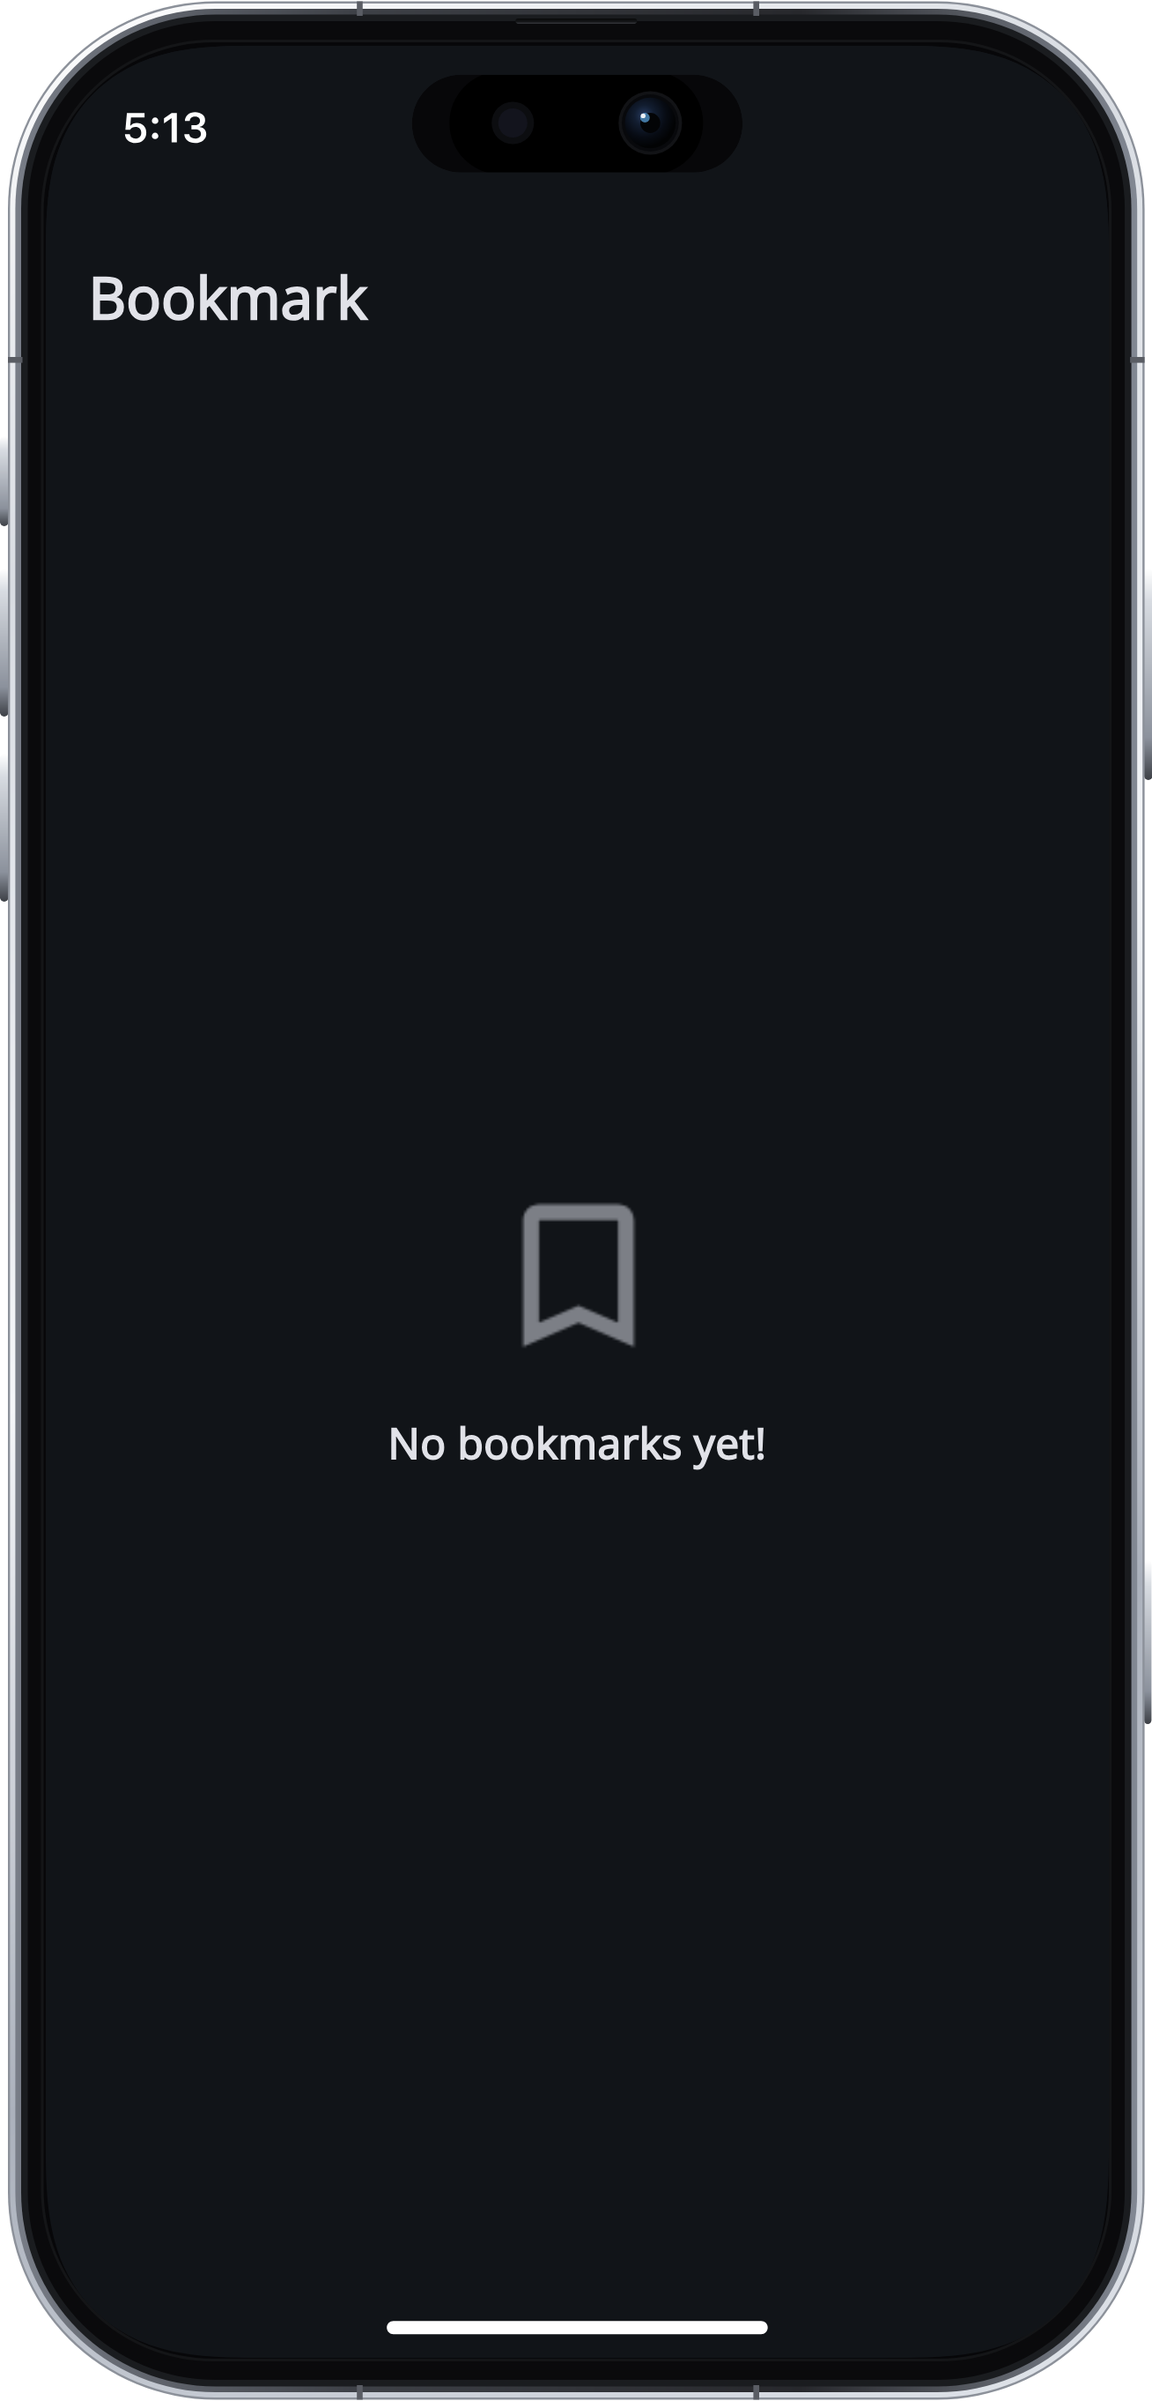
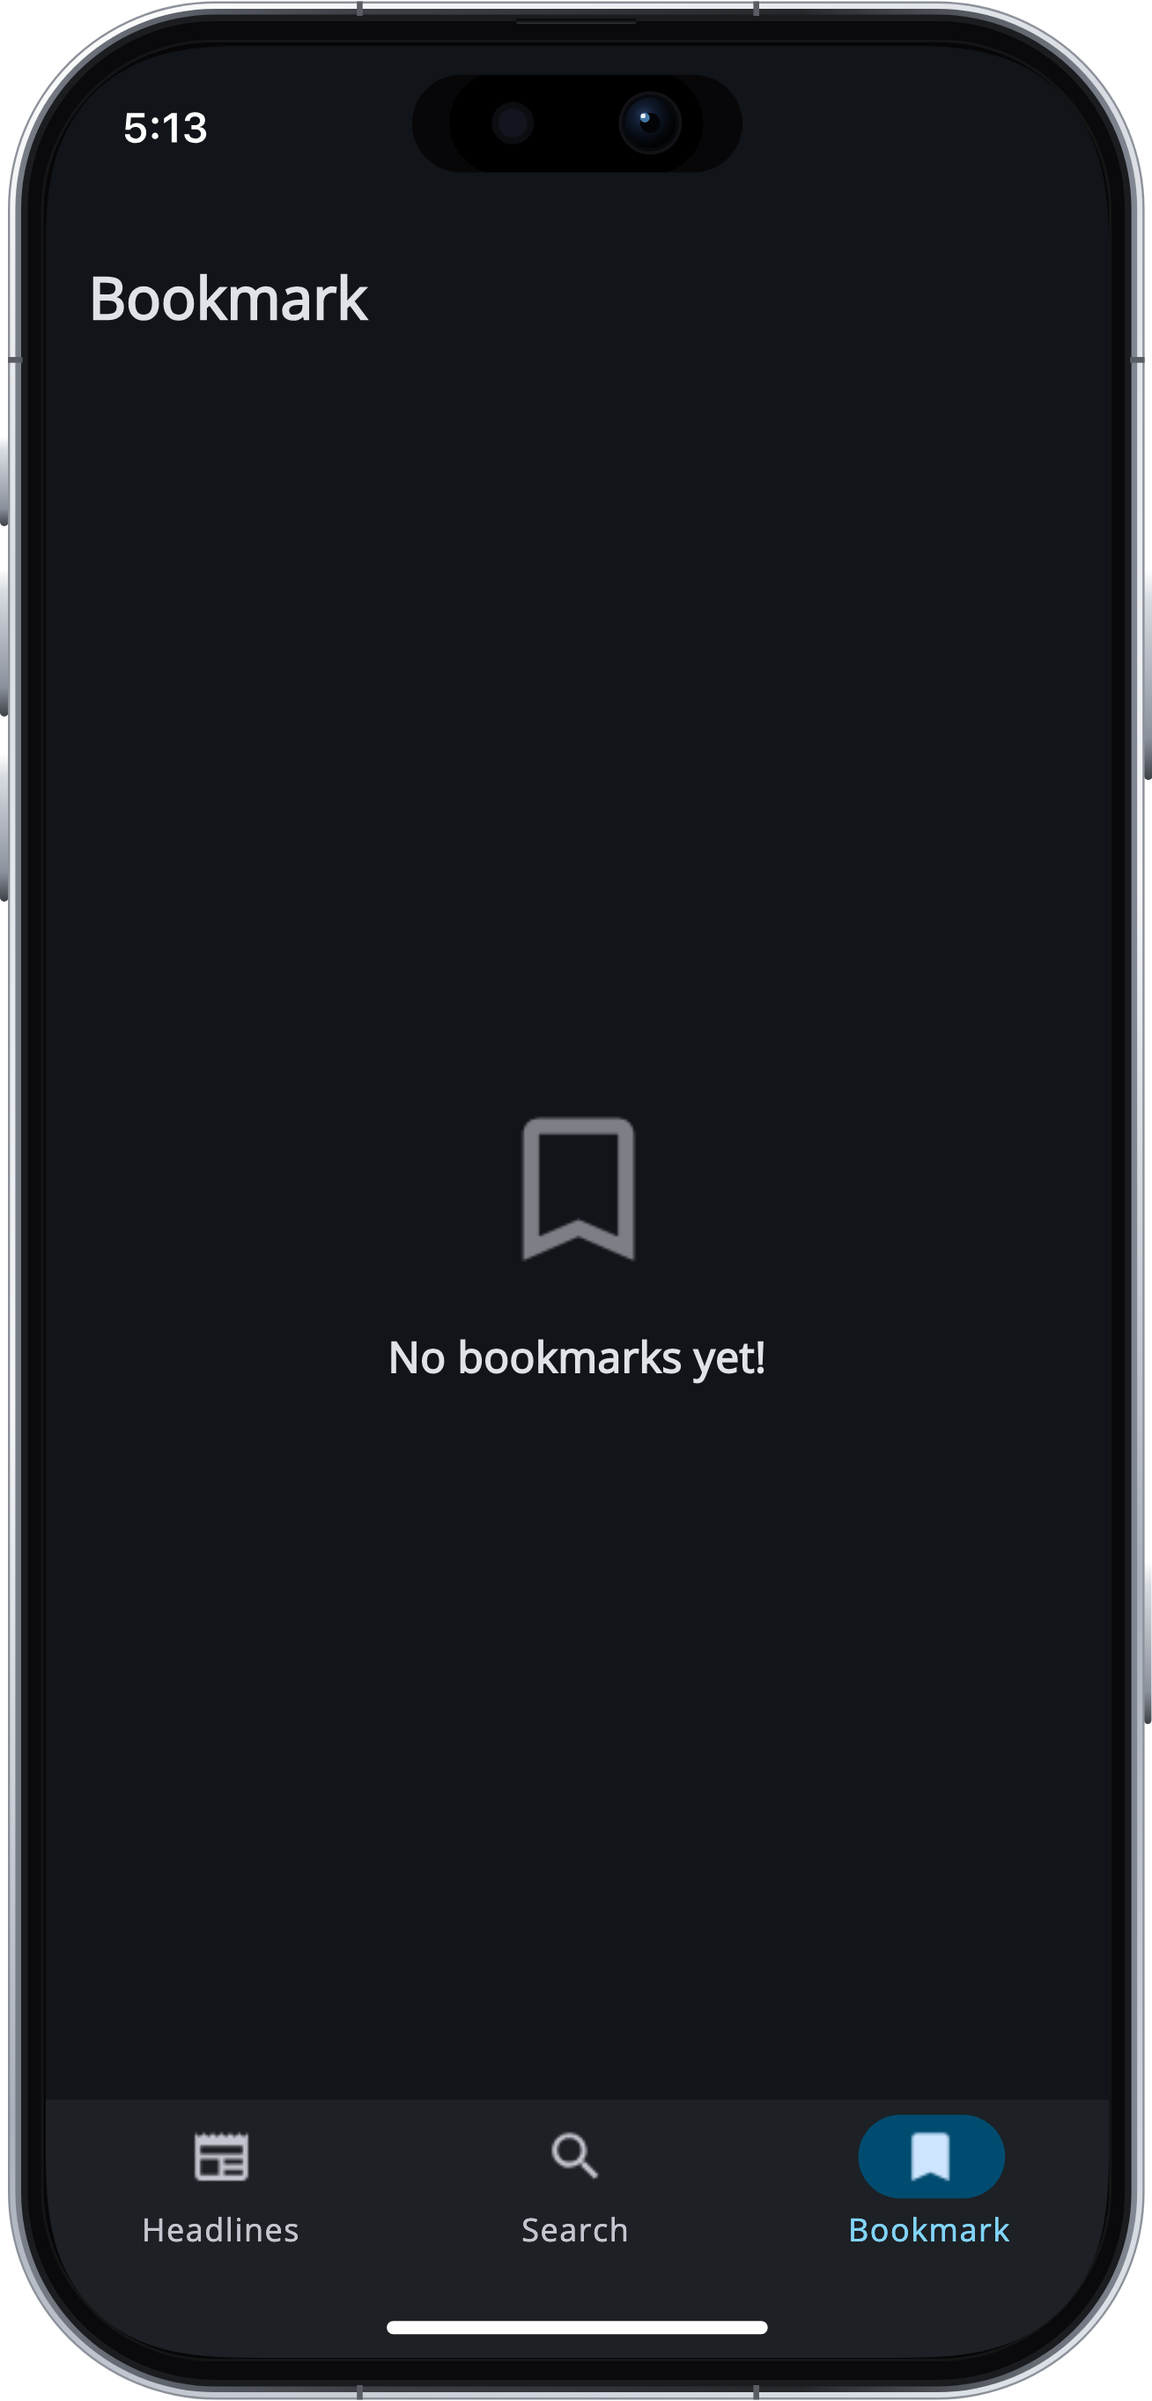
feat(screenshot): integrate CustomNavigationSuiteScaffoldLayout and update screenshots

diff --git a/screenshot/src/main/kotlin/com/coding/meet/newsapp/screenshot/AdaptiveScreenContent.kt b/screenshot/src/main/kotlin/com/coding/meet/newsapp/screenshot/AdaptiveScreenContent.kt
@@ -2,10 +2,14 @@ package com.coding.meet.newsapp.screenshot
 
 import androidx.compose.foundation.layout.BoxWithConstraints
 import androidx.compose.foundation.layout.fillMaxSize
+import androidx.compose.material3.adaptive.navigationsuite.NavigationSuiteType
+import androidx.compose.material3.adaptive.navigationsuite.rememberNavigationSuiteScaffoldState
 import androidx.compose.runtime.Composable
 import androidx.compose.ui.Modifier
 import androidx.compose.ui.unit.dp
 import com.apadmi.cmpdevicepreview.devices.DevicePresets
+import com.coding.meet.newsapp.ui.navigation.CustomNavigationSuiteScaffoldLayout
+import com.coding.meet.newsapp.ui.navigation.NavigationItem
 import java.io.File
 
 /**
@@ -48,26 +52,31 @@ internal val mobileScreenStates = listOf(
 )
 
 internal val desktopScreenStates = listOf(
-    "01_two_pane_headlines_and_detail.png" to AdaptiveScreenState.HEADLINES,
-    "02_two_pane_search_and_detail.png" to AdaptiveScreenState.SEARCH_RESULTS,
-    "03_two_pane_bookmarks_and_detail.png" to AdaptiveScreenState.BOOKMARKS_SAVED,
-    "04_two_pane_theme_dialog.png" to AdaptiveScreenState.THEME_DIALOG,
-    "05_two_pane_delete_bookmarks_dialog.png" to AdaptiveScreenState.CLEAR_BOOKMARKS_DIALOG,
+    "01_headlines_feed.png" to AdaptiveScreenState.HEADLINES,
+    "02_article_detail.png" to AdaptiveScreenState.ARTICLE_DETAIL,
+    "03_search_results.png" to AdaptiveScreenState.SEARCH_RESULTS,
+    "04_bookmarks_saved.png" to AdaptiveScreenState.BOOKMARKS_SAVED,
+    "05_settings_screen.png" to AdaptiveScreenState.SETTINGS,
+    "06_theme_selection_dialog.png" to AdaptiveScreenState.THEME_DIALOG,
 )
 
 internal val webScreenStates = listOf(
-    "01_web_headlines_and_detail.png" to AdaptiveScreenState.HEADLINES,
-    "02_web_search_results.png" to AdaptiveScreenState.SEARCH_RESULTS,
-    "03_web_bookmarks_and_detail.png" to AdaptiveScreenState.BOOKMARKS_SAVED,
-    "04_web_theme_dialog.png" to AdaptiveScreenState.THEME_DIALOG,
-    "05_web_delete_bookmarks_dialog.png" to AdaptiveScreenState.CLEAR_BOOKMARKS_DIALOG,
+    "01_web_headlines_feed.png" to AdaptiveScreenState.HEADLINES,
+    "02_web_article_detail.png" to AdaptiveScreenState.ARTICLE_DETAIL,
+    "03_web_search_results.png" to AdaptiveScreenState.SEARCH_RESULTS,
+    "04_web_bookmarks_saved.png" to AdaptiveScreenState.BOOKMARKS_SAVED,
+    "05_web_settings_screen.png" to AdaptiveScreenState.SETTINGS,
+    "06_web_theme_selection_dialog.png" to AdaptiveScreenState.THEME_DIALOG,
 )
 
 /**
- * Unified adaptive container that renders the given [state] automatically adapting to the
- * screen width:
- * - On compact devices (`maxWidth < 840.dp`, e.g. Pixel 9, iPhone 16 Pro): renders single-pane layout.
- * - On expanded screens (`maxWidth >= 840.dp`, e.g. Desktop window, Web browser): renders two-pane master-detail layout.
+ * Canonical adaptive app container powered by [CustomNavigationSuiteScaffoldLayout]:
+ * - Compact screens (< 840.dp, e.g. Pixel 9, iPhone 16 Pro):
+ *   Uses [NavigationSuiteType.ShortNavigationBarCompact] with active item selection, or
+ *   [NavigationSuiteType.None] when viewing article details / settings.
+ * - Expanded screens (>= 840.dp, e.g. Desktop, Web):
+ *   Uses [NavigationSuiteType.NavigationDrawer] permanent navigation panel on the left, or
+ *   [NavigationSuiteType.None] for detail / settings view.
  */
 @Composable
 fun AdaptiveAppContent(
@@ -75,68 +84,35 @@ fun AdaptiveAppContent(
     isDark: Boolean = true,
 ) {
     BoxWithConstraints(modifier = Modifier.fillMaxSize()) {
-        val isTwoPane = maxWidth >= 840.dp
+        val isExpanded = maxWidth >= 840.dp
 
-        if (isTwoPane) {
-            when (state) {
-                AdaptiveScreenState.HEADLINES,
-                AdaptiveScreenState.HEADLINES_SHIMMER -> {
-                    TwoPaneLayout(
-                        leftPane = { HeadlinesContent() },
-                        rightPane = { ArticleDetailContent() },
-                    )
-                }
-                AdaptiveScreenState.ARTICLE_DETAIL -> {
-                    TwoPaneLayout(
-                        leftPane = { HeadlinesContent() },
-                        rightPane = { ArticleDetailContent(isBookmarked = true) },
-                    )
-                }
-                AdaptiveScreenState.SEARCH_EMPTY -> {
-                    TwoPaneLayout(
-                        leftPane = { SearchEmptyContent() },
-                        rightPane = { ArticleDetailContent() },
-                    )
-                }
-                AdaptiveScreenState.SEARCH_RESULTS -> {
-                    TwoPaneLayout(
-                        leftPane = { SearchResultsContent() },
-                        rightPane = { ArticleDetailContent(article = sampleSearchArticles.first()) },
-                    )
-                }
-                AdaptiveScreenState.BOOKMARKS_EMPTY -> {
-                    TwoPaneLayout(
-                        leftPane = { BookmarksEmptyContent() },
-                        rightPane = { ArticleDetailContent() },
-                    )
-                }
-                AdaptiveScreenState.BOOKMARKS_SAVED -> {
-                    TwoPaneLayout(
-                        leftPane = { BookmarksSavedContent() },
-                        rightPane = { ArticleDetailContent(article = sampleBookmarkedArticles.first()) },
-                    )
-                }
-                AdaptiveScreenState.SETTINGS -> {
-                    TwoPaneLayout(
-                        leftPane = { SettingsContent(isDark = isDark) },
-                        rightPane = { ArticleDetailContent() },
-                    )
-                }
-                AdaptiveScreenState.THEME_DIALOG -> {
-                    TwoPaneLayout(
-                        leftPane = { ThemeDialogContent(isDark = isDark) },
-                        rightPane = { ArticleDetailContent() },
-                    )
-                }
-                AdaptiveScreenState.CLEAR_BOOKMARKS_DIALOG -> {
-                    TwoPaneLayout(
-                        leftPane = { ClearBookmarksDialogContent(isDark = isDark) },
-                        rightPane = { ArticleDetailContent() },
-                    )
-                }
-            }
+        val currentNavItem = when (state) {
+            AdaptiveScreenState.HEADLINES,
+            AdaptiveScreenState.HEADLINES_SHIMMER -> NavigationItem.Headlines
+            AdaptiveScreenState.SEARCH_EMPTY,
+            AdaptiveScreenState.SEARCH_RESULTS -> NavigationItem.Search
+            AdaptiveScreenState.BOOKMARKS_EMPTY,
+            AdaptiveScreenState.BOOKMARKS_SAVED -> NavigationItem.Bookmark
+            AdaptiveScreenState.ARTICLE_DETAIL,
+            AdaptiveScreenState.SETTINGS,
+            AdaptiveScreenState.THEME_DIALOG,
+            AdaptiveScreenState.CLEAR_BOOKMARKS_DIALOG -> null
+        }
+
+        val layoutType = if (currentNavItem == null) {
+            NavigationSuiteType.None
+        } else if (isExpanded) {
+            NavigationSuiteType.NavigationDrawer
         } else {
-            // Compact Mobile Layout
+            NavigationSuiteType.ShortNavigationBarCompact
+        }
+
+        CustomNavigationSuiteScaffoldLayout(
+            navigationSuiteState = rememberNavigationSuiteScaffoldState(),
+            layoutType = layoutType,
+            currentNavigationItem = currentNavItem,
+            onNavigationItemClick = {},
+        ) {
             when (state) {
                 AdaptiveScreenState.HEADLINES -> HeadlinesContent()
                 AdaptiveScreenState.HEADLINES_SHIMMER -> HeadlinesShimmerContent()
@@ -196,4 +172,3 @@ internal fun exportPlatformScreens(
         }
     }
 }
-

diff --git a/screenshot/src/test/kotlin/com/coding/meet/newsapp/screenshot/AllPlatformScreenshotTest.kt b/screenshot/src/test/kotlin/com/coding/meet/newsapp/screenshot/AllPlatformScreenshotTest.kt
@@ -113,7 +113,7 @@ class AllPlatformScreenshotTest {
     }
 
     @Test
-    fun captureMacDesktopTwoPaneScreenshotInJvm() = runComposeUiTest {
+    fun captureMacDesktopScreenshotInJvm() = runComposeUiTest {
         val screenshots = DeviceScreenshots()
         setContent {
             CompositionLocalProvider(LocalDeviceScreenshots provides screenshots) {
@@ -141,7 +141,7 @@ class AllPlatformScreenshotTest {
             screenshots.capture(includeFrame = true),
             "macOS window frame could not be captured",
         )
-        val outputFile = File(outputDir, "test_mac_desktop_two_pane.png")
+        val outputFile = File(outputDir, "test_mac_desktop_headlines.png")
         saveImageBitmap(capturedImage, outputFile)
 
         assertTrue(outputFile.exists() && outputFile.length() > 0, "macOS screenshot was not saved!")
@@ -149,7 +149,7 @@ class AllPlatformScreenshotTest {
     }
 
     @Test
-    fun captureWebBrowserTwoPaneScreenshotInJvm() = runComposeUiTest {
+    fun captureWebBrowserScreenshotInJvm() = runComposeUiTest {
         setContent {
             NewsAppTheme(darkTheme = true) {
                 WebBrowserFrame(
@@ -168,7 +168,7 @@ class AllPlatformScreenshotTest {
 
         val rootNode = onRoot()
         val imageBitmap = rootNode.captureToImage()
-        val outputFile = File(outputDir, "test_web_browser_two_pane.png")
+        val outputFile = File(outputDir, "test_web_browser_headlines.png")
         saveImageBitmap(imageBitmap, outputFile)
 
         assertTrue(outputFile.exists() && outputFile.length() > 0, "Web browser screenshot was not saved!")

diff --git a/screenshot/src/main/kotlin/com/coding/meet/newsapp/screenshot/ScreenshotRenderers.kt b/screenshot/src/main/kotlin/com/coding/meet/newsapp/screenshot/ScreenshotRenderers.kt
@@ -33,38 +33,6 @@ import org.jetbrains.skia.Image
 import java.io.File
 import kotlin.math.roundToInt
 
-@Composable
-internal fun TwoPaneLayout(
-    leftPane: @Composable () -> Unit,
-    rightPane: @Composable () -> Unit,
-) {
-    Row(
-        modifier = Modifier
-            .fillMaxSize()
-            .background(MaterialTheme.colorScheme.background)
-    ) {
-        Box(
-            modifier = Modifier
-                .width(420.dp)
-                .fillMaxHeight()
-        ) {
-            leftPane()
-        }
-        VerticalDivider(
-            modifier = Modifier.fillMaxHeight(),
-            thickness = 1.dp,
-            color = MaterialTheme.colorScheme.outlineVariant
-        )
-        Box(
-            modifier = Modifier
-                .weight(1f)
-                .fillMaxHeight()
-        ) {
-            rightPane()
-        }
-    }
-}
-
 internal fun renderPhoneScreen(
     preset: DevicePreset,
     outputFile: File,

diff --git a/README.md b/README.md
@@ -170,33 +170,35 @@ The UI layer is built upon a standardized, accessible Material Design 3 design s
 
 ---
 
-### macOS / Desktop (Two-Pane Master-Detail Window) 🖥
+### macOS / Desktop (Adaptive Desktop Window) 🖥
 
 <div align="center">
 
 | Dark Mode | Light Mode |
 | :---: | :---: |
-| <img src="image/mac/dark/01_two_pane_headlines_and_detail.png" width="460" alt="Desktop Headlines Dark" /> | <img src="image/mac/light/01_two_pane_headlines_and_detail.png" width="460" alt="Desktop Headlines Light" /> |
-| <img src="image/mac/dark/02_two_pane_search_and_detail.png" width="460" alt="Desktop Search Dark" /> | <img src="image/mac/light/02_two_pane_search_and_detail.png" width="460" alt="Desktop Search Light" /> |
-| <img src="image/mac/dark/03_two_pane_bookmarks_and_detail.png" width="460" alt="Desktop Bookmarks Dark" /> | <img src="image/mac/light/03_two_pane_bookmarks_and_detail.png" width="460" alt="Desktop Bookmarks Light" /> |
-| <img src="image/mac/dark/04_two_pane_theme_dialog.png" width="460" alt="Desktop Theme Dialog Dark" /> | <img src="image/mac/light/04_two_pane_theme_dialog.png" width="460" alt="Desktop Theme Dialog Light" /> |
-| <img src="image/mac/dark/05_two_pane_delete_bookmarks_dialog.png" width="460" alt="Desktop Delete Dialog Dark" /> | <img src="image/mac/light/05_two_pane_delete_bookmarks_dialog.png" width="460" alt="Desktop Delete Dialog Light" /> |
+| <img src="image/mac/dark/01_headlines_feed.png" width="460" alt="Desktop Headlines Dark" /> | <img src="image/mac/light/01_headlines_feed.png" width="460" alt="Desktop Headlines Light" /> |
+| <img src="image/mac/dark/02_article_detail.png" width="460" alt="Desktop Article Detail Dark" /> | <img src="image/mac/light/02_article_detail.png" width="460" alt="Desktop Article Detail Light" /> |
+| <img src="image/mac/dark/03_search_results.png" width="460" alt="Desktop Search Dark" /> | <img src="image/mac/light/03_search_results.png" width="460" alt="Desktop Search Light" /> |
+| <img src="image/mac/dark/04_bookmarks_saved.png" width="460" alt="Desktop Bookmarks Dark" /> | <img src="image/mac/light/04_bookmarks_saved.png" width="460" alt="Desktop Bookmarks Light" /> |
+| <img src="image/mac/dark/05_settings_screen.png" width="460" alt="Desktop Settings Dark" /> | <img src="image/mac/light/05_settings_screen.png" width="460" alt="Desktop Settings Light" /> |
+| <img src="image/mac/dark/06_theme_selection_dialog.png" width="460" alt="Desktop Theme Dialog Dark" /> | <img src="image/mac/light/06_theme_selection_dialog.png" width="460" alt="Desktop Theme Dialog Light" /> |
 
 </div>
 
 ---
 
-### Web (Chrome Browser Two-Pane Frame) 🌐
+### Web (Chrome Browser Adaptive Frame) 🌐
 
 <div align="center">
 
 | Dark Mode | Light Mode |
 | :---: | :---: |
-| <img src="image/web/dark/01_web_headlines_and_detail.png" width="460" alt="Web Headlines Dark" /> | <img src="image/web/light/01_web_headlines_and_detail.png" width="460" alt="Web Headlines Light" /> |
-| <img src="image/web/dark/02_web_search_results.png" width="460" alt="Web Search Dark" /> | <img src="image/web/light/02_web_search_results.png" width="460" alt="Web Search Light" /> |
-| <img src="image/web/dark/03_web_bookmarks_and_detail.png" width="460" alt="Web Bookmarks Dark" /> | <img src="image/web/light/03_web_bookmarks_and_detail.png" width="460" alt="Web Bookmarks Light" /> |
-| <img src="image/web/dark/04_web_theme_dialog.png" width="460" alt="Web Theme Dialog Dark" /> | <img src="image/web/light/04_web_theme_dialog.png" width="460" alt="Web Theme Dialog Light" /> |
-| <img src="image/web/dark/05_web_delete_bookmarks_dialog.png" width="460" alt="Web Delete Dialog Dark" /> | <img src="image/web/light/05_web_delete_bookmarks_dialog.png" width="460" alt="Web Delete Dialog Light" /> |
+| <img src="image/web/dark/01_web_headlines_feed.png" width="460" alt="Web Headlines Dark" /> | <img src="image/web/light/01_web_headlines_feed.png" width="460" alt="Web Headlines Light" /> |
+| <img src="image/web/dark/02_web_article_detail.png" width="460" alt="Web Article Detail Dark" /> | <img src="image/web/light/02_web_article_detail.png" width="460" alt="Web Article Detail Light" /> |
+| <img src="image/web/dark/03_web_search_results.png" width="460" alt="Web Search Dark" /> | <img src="image/web/light/03_web_search_results.png" width="460" alt="Web Search Light" /> |
+| <img src="image/web/dark/04_web_bookmarks_saved.png" width="460" alt="Web Bookmarks Dark" /> | <img src="image/web/light/04_web_bookmarks_saved.png" width="460" alt="Web Bookmarks Light" /> |
+| <img src="image/web/dark/05_web_settings_screen.png" width="460" alt="Web Settings Dark" /> | <img src="image/web/light/05_web_settings_screen.png" width="460" alt="Web Settings Light" /> |
+| <img src="image/web/dark/06_web_theme_selection_dialog.png" width="460" alt="Web Theme Dialog Dark" /> | <img src="image/web/light/06_web_theme_selection_dialog.png" width="460" alt="Web Theme Dialog Light" /> |
 
 </div>
 

diff --git a/screenshot/README.md b/screenshot/README.md
@@ -27,9 +27,9 @@ By default, the screenshot-related modules **can remain commented out** in [`set
      - **Solid Opacity Scrims**: Fast-forwards Material 3 dialog appearance animations to 100% solid opacity.
      - **Chrome Web Frame**: Realistic browser header with window controls, back/forward/refresh buttons, URL pill, and dark/light styling.
 
-2. **Unified Adaptive Layout**:
-   - Compact screens (`< 840.dp`, Android & iOS): Single-pane feed, article details, search, bookmarks, and settings.
-   - Expanded screens (`>= 840.dp`, macOS & Web): Master-detail two-pane layout with headlines on the left and full article reader on the right.
+2. **Unified Adaptive Layout with `CustomNavigationSuiteScaffoldLayout`**:
+   - Compact screens (`< 840.dp`, Android & iOS): Uses `ShortNavigationBarCompact` for bottom navigation tabs (Headlines, Search, Bookmark) and `NavigationSuiteType.None` for detail/settings screens.
+   - Expanded screens (`>= 840.dp`, macOS & Web): Uses permanent `NavigationDrawer` navigation sheet on the left and full responsive screen views on the right.
 
 ---
 

diff --git a/screenshot/AGENT.md b/screenshot/AGENT.md
@@ -34,5 +34,5 @@ This guide is designed for **AI coding agents** and **human developers** integra
 Exported to `image/`:
 - `image/android/dark/` & `image/android/light/` (Google Pixel 9 hardware frame)
 - `image/ios/dark/` & `image/ios/light/` (Apple iPhone 16 Pro Dynamic Island frame)
-- `image/mac/dark/` & `image/mac/light/` (macOS Two-Pane Desktop Window frame)
-- `image/web/dark/` & `image/web/light/` (Chrome Web Browser Two-Pane frame)
+- `image/mac/dark/` & `image/mac/light/` (macOS Desktop Window frame with navigation drawer)
+- `image/web/dark/` & `image/web/light/` (Chrome Web Browser frame with navigation drawer)
